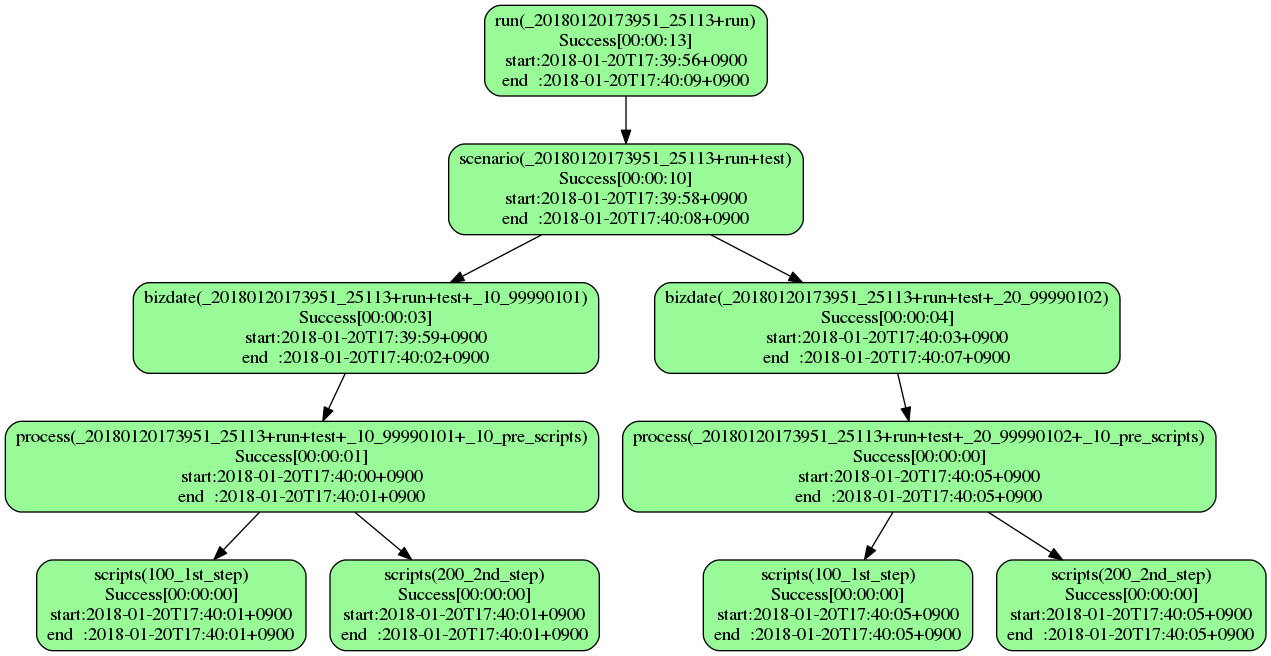
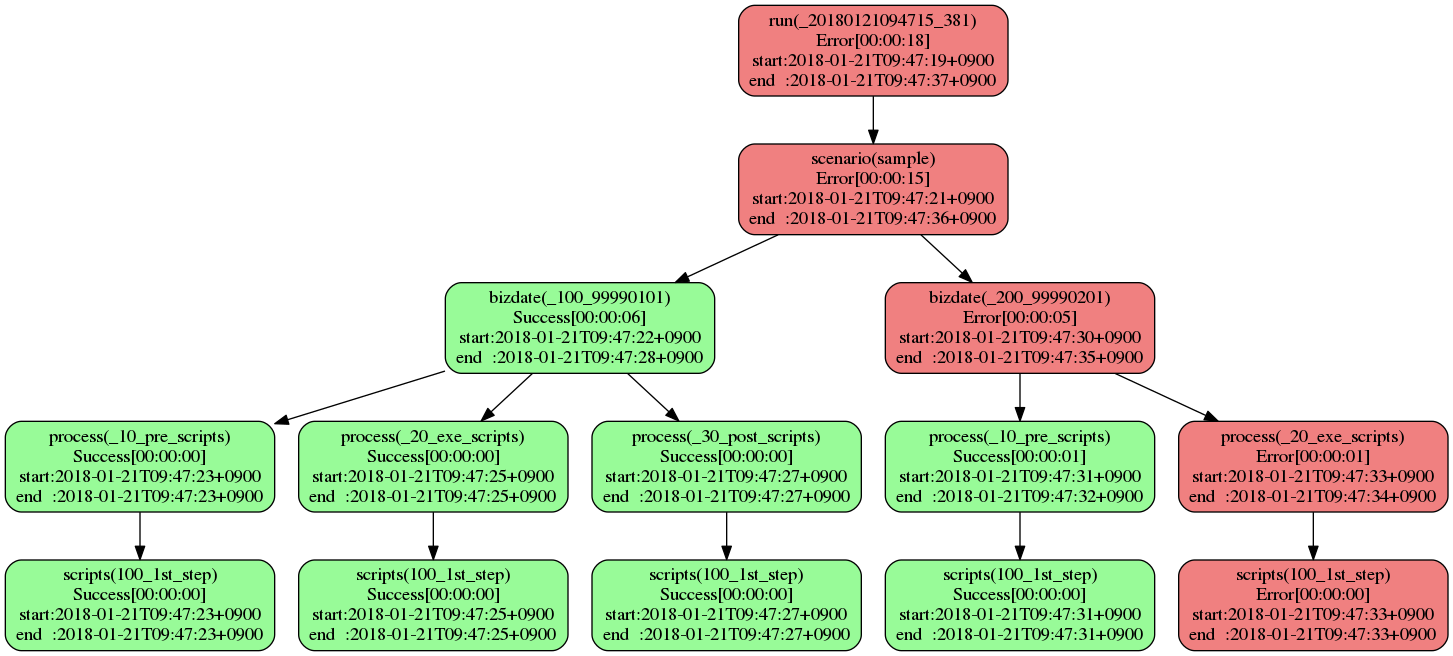
chore:出力調整

diff --git a/app/controllers/webhook_controller.rb b/app/controllers/webhook_controller.rb
@@ -104,6 +104,10 @@ class WebhookController < ApplicationController
     @jsons = []
     # 最新の run_id を対象にする
     rec = Postdatum.order(created_at: :desc).find_by(hookId: params['hookId'])
+    if rec == nil then
+      render html: 'no data'
+      return
+    end
     Postdatum.where("hookId = ? and run_id = ?", params['hookId'], rec.run_id)
              .order(created_at: :asc).each { |data|
       json_data = JSON.parse(data.payload)
@@ -111,11 +115,23 @@ class WebhookController < ApplicationController
 
       id=json_data['payload']['id']
       parent_id=json_data['payload']['parent_id']
-p id,parent_id
       run_id=json_data['payload']['run']['run_id']
+      key = ""
+      case json_data['payload']['type']
+      when 'run' then
+        key=run_id
+      when 'scenario' then
+        key=json_data['payload']['run']['scenario']['name']
+      when 'bizdate' then
+        key=json_data['payload']['run']['scenario']['bizdate']['dirname']
+      when 'process' then
+        key=json_data['payload']['run']['scenario']['bizdate']['process']['dirname']
+      end
+
+
       desc=sprintf("%s(%s)\n%s[%s]\nstart:%s\nend  :%s",
                     json_data['payload']['type'],
-                    id,
+                    key,
                     json_data['payload']['status'],
                     json_data['payload']['processing_time'],
                     json_data['payload']['start_time'],
